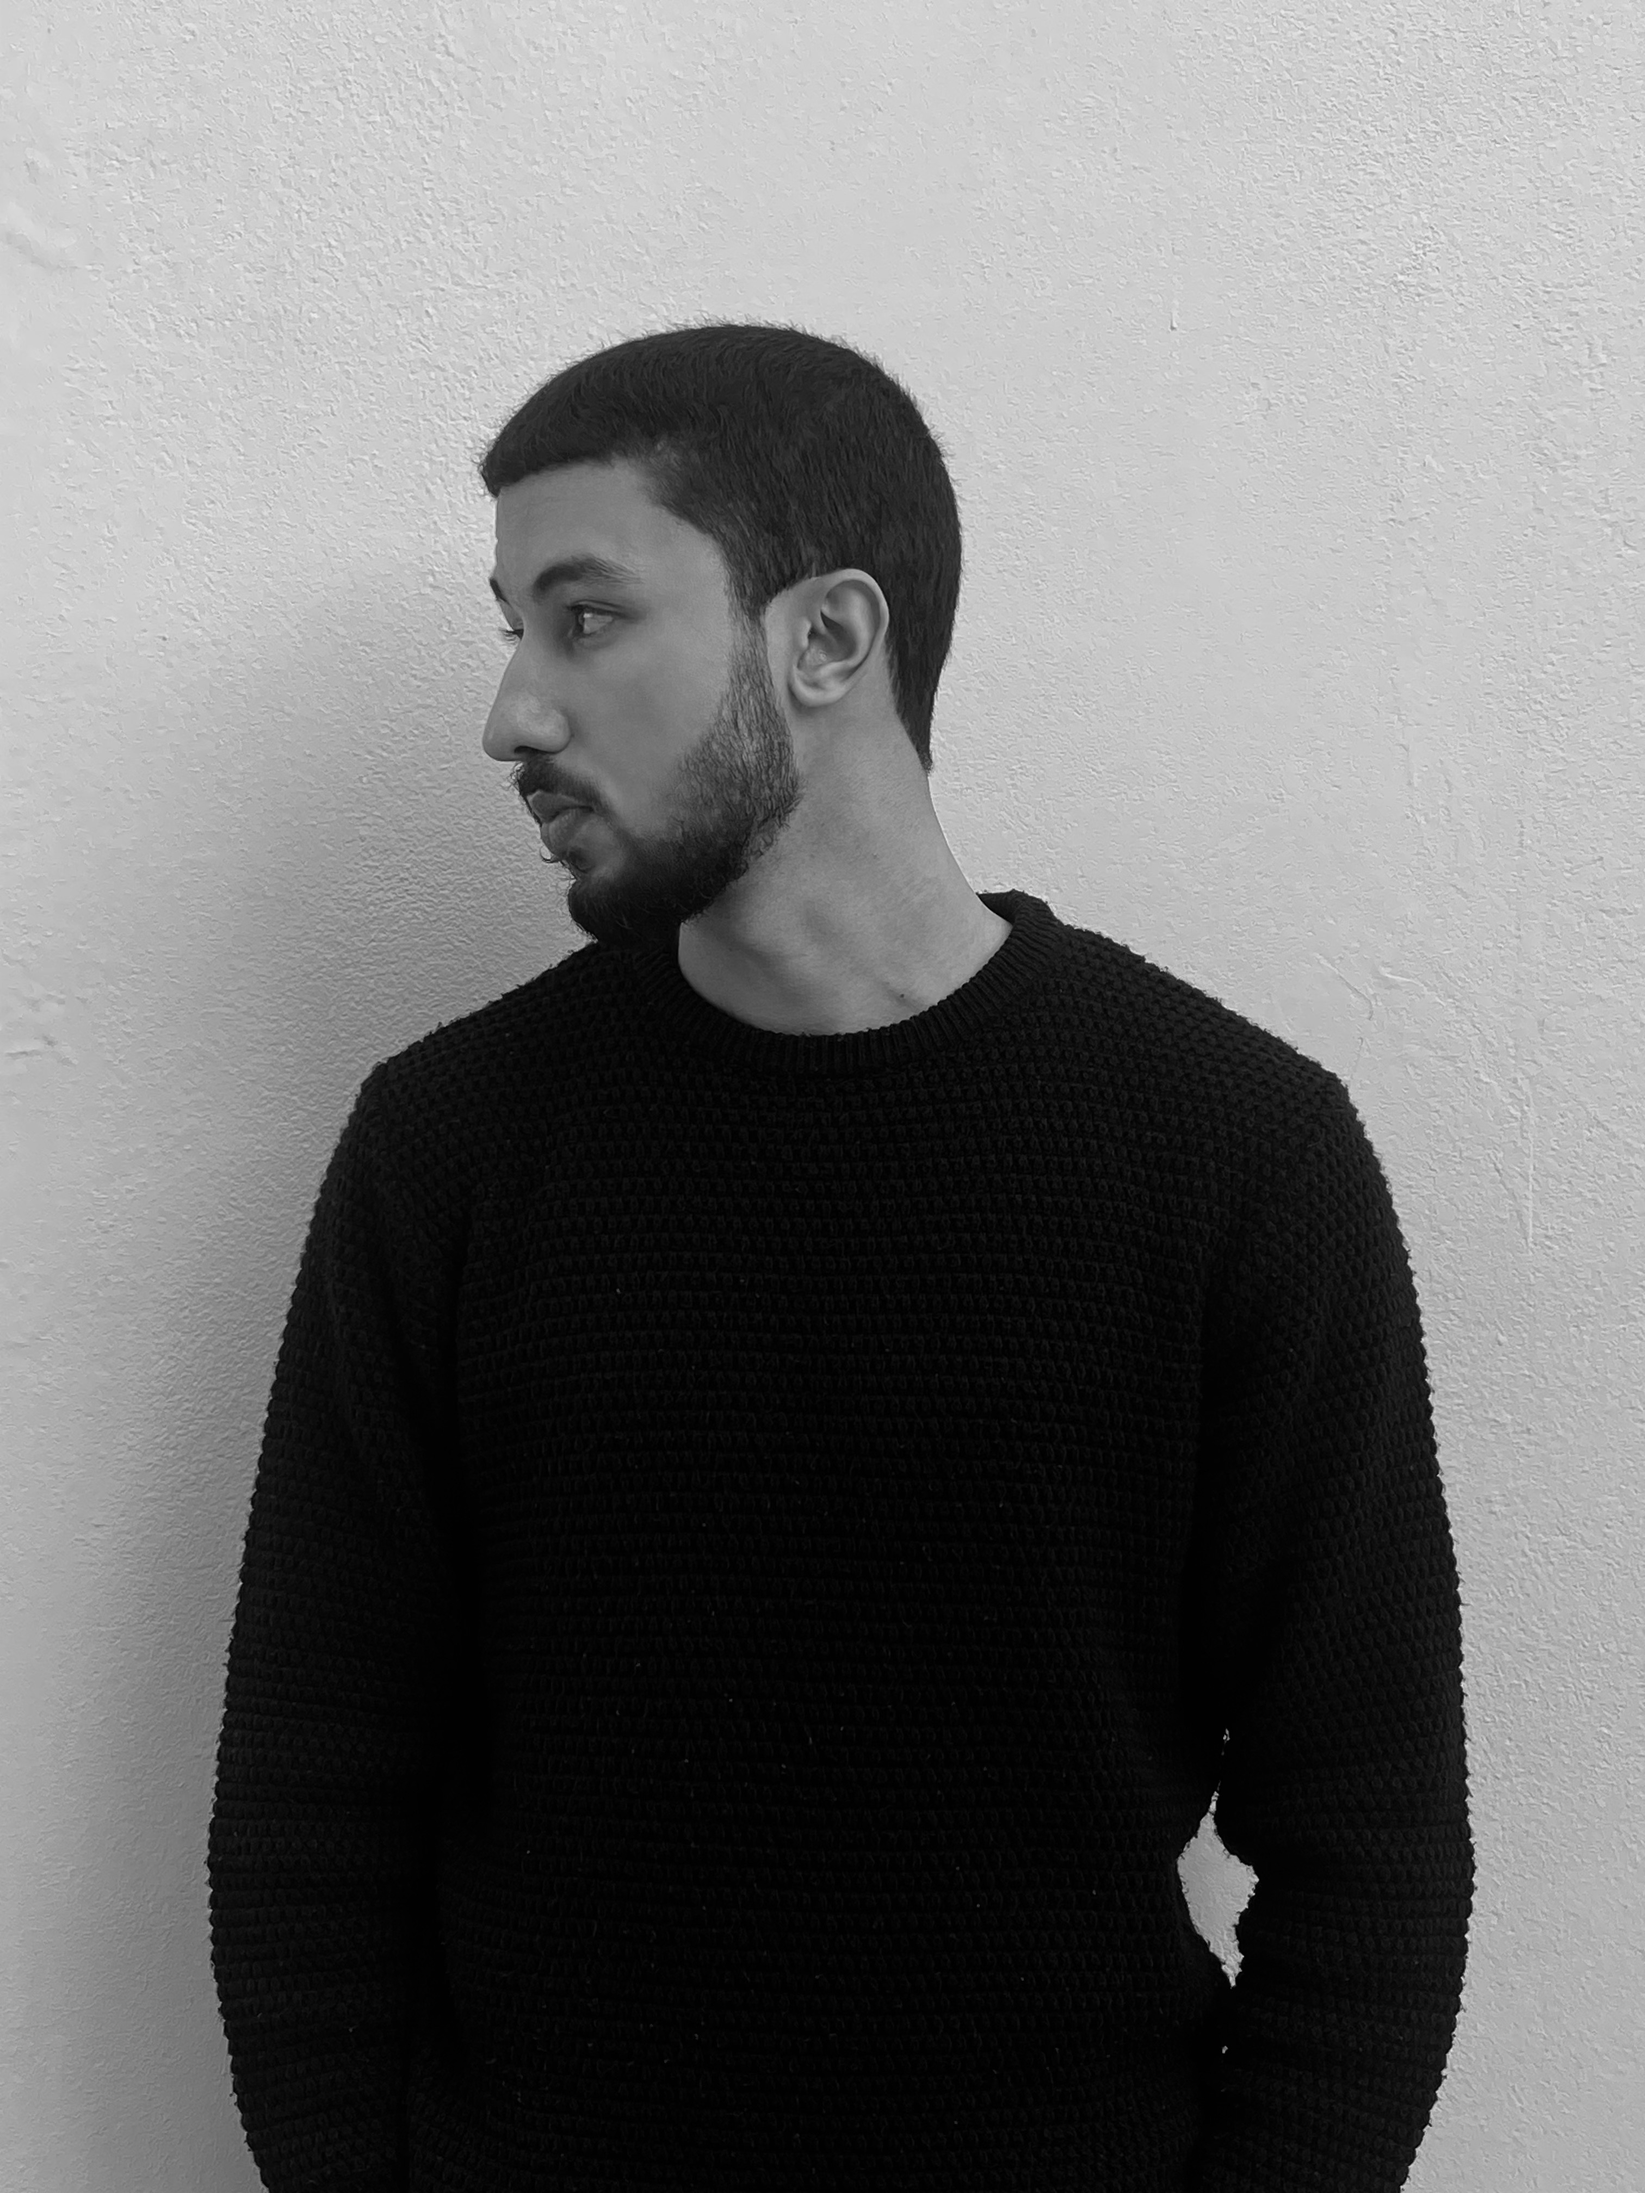
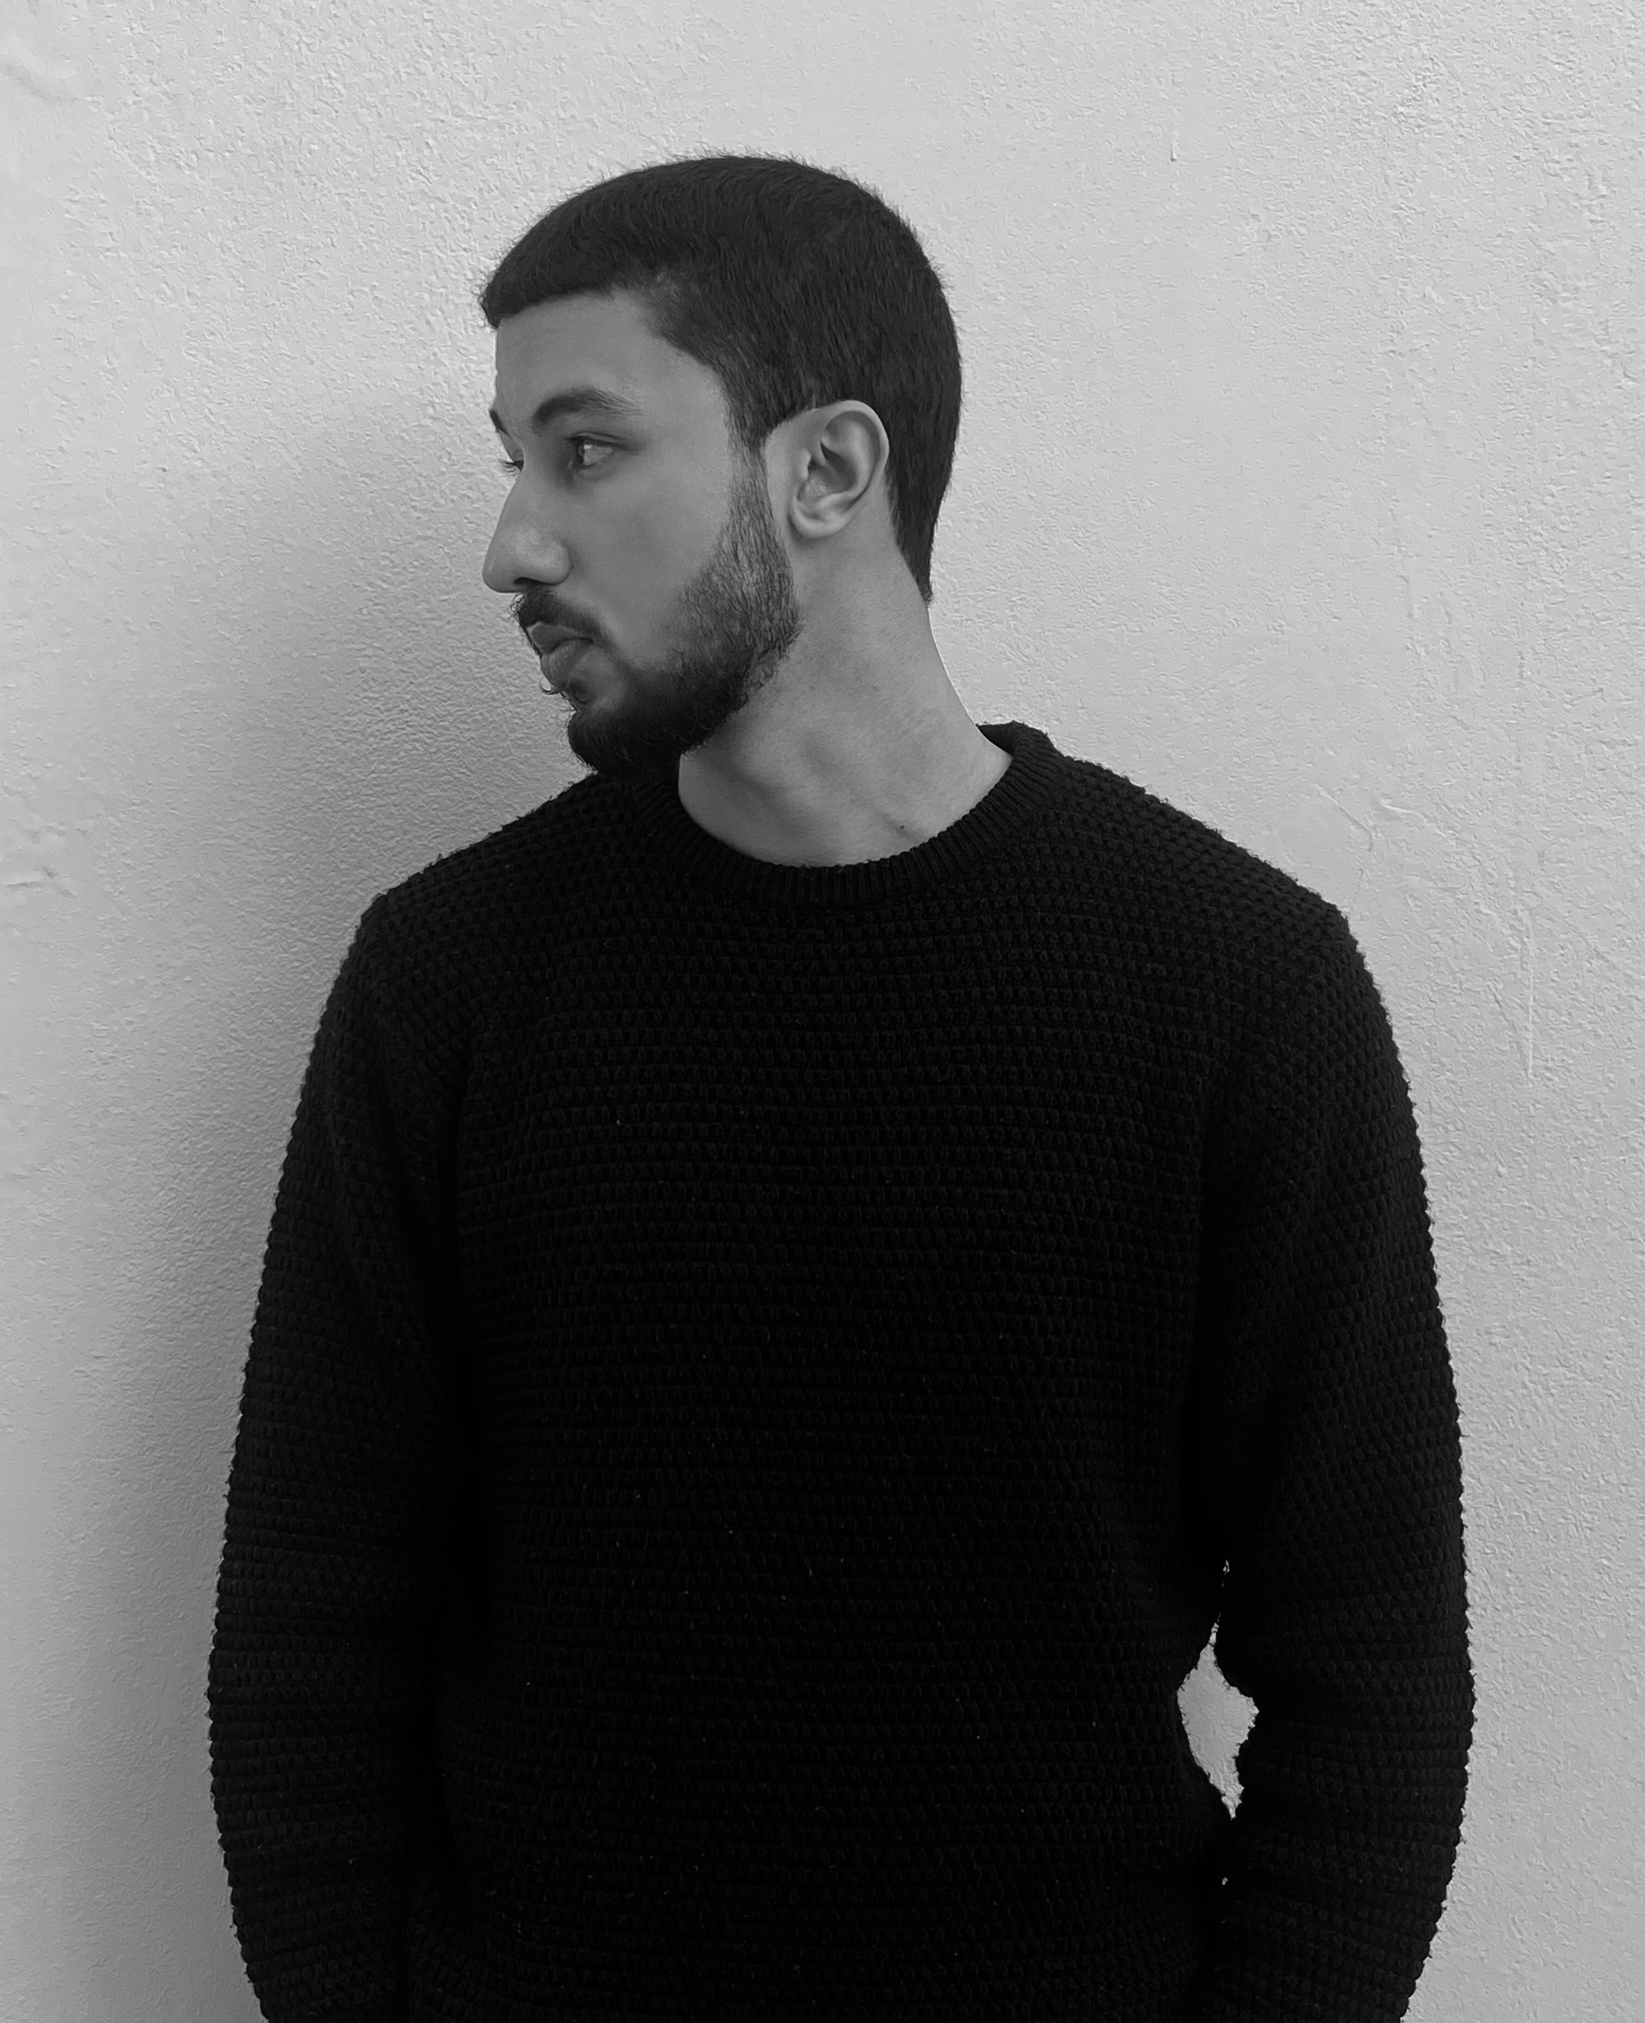
Update About Picture

diff --git a/components/aboutComp.jsx b/components/aboutComp.jsx
@@ -45,8 +45,8 @@ export default function AboutComp() {
           <p className="text-accent text-sm">Intro</p>
         </div>
 
-        <div className="w-full relative h-[600px]">
-          <Image src={about} alt="about" placeholder="blur" fill priority className="rounded-md object-cover object-center" />
+        <div className="w-full relative sm:h-[600px] h-[400px]">
+          <Image src={about} alt="about" placeholder="blur" fill priority className="rounded-md object-cover object-top" />
         </div>
 
         <div className="flex flex-nowrap flex-col gap-y-6 justify-center text-base">
